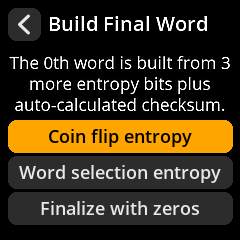
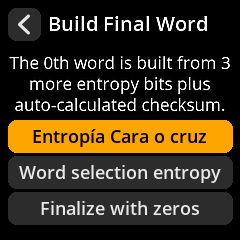
l10n by nmhs

Changed region(s): [[0.1167, 0.525, 0.875, 0.6125]]

diff --git a/es/README.md b/es/README.md
@@ -1,5 +1,5 @@
 # SeedSigner Screenshots: Spanish
-## Translation progress: 89.8%
+## Translation progress: 92.3%
 
 ---
 
